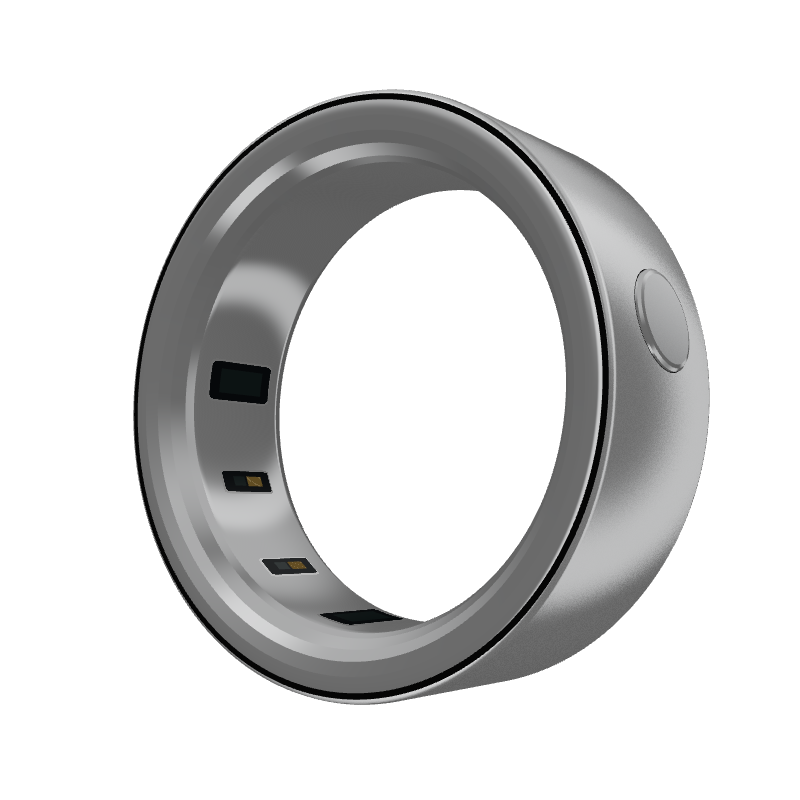
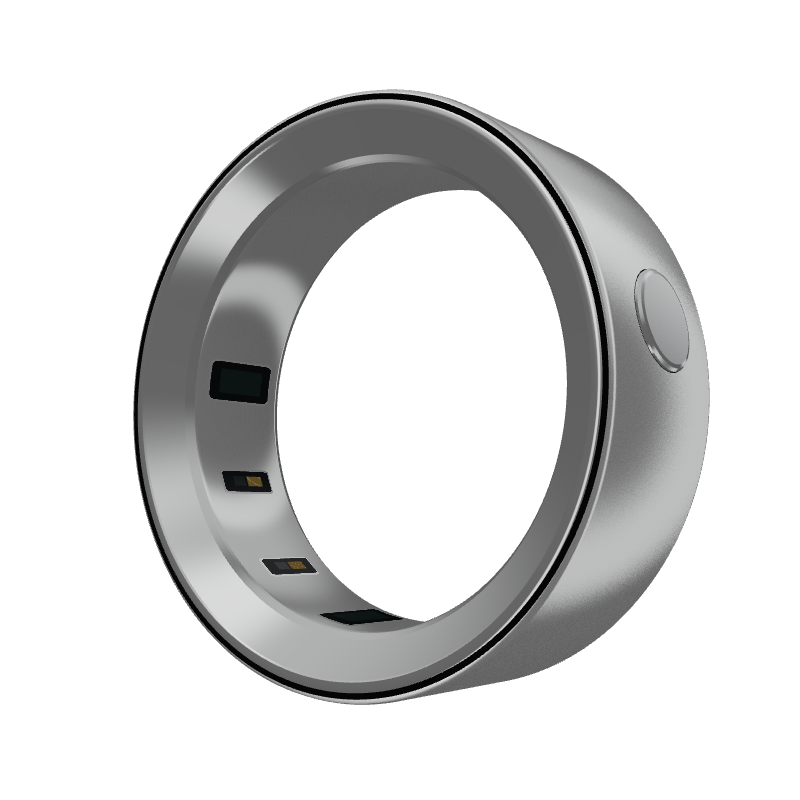
Round microphone corners and rebuild photo-based inner chamfer

diff --git a/ring-renderer.js b/ring-renderer.js
@@ -93,7 +93,7 @@ function createRingRenderer(canvas, options = {}) {
         vec2 mic = vec2(angularDistance(theta,-.87)*1.126,vLocal.z);
         vec2 led = vec2(angularDistance(theta,-1.06)*1.126,vLocal.z);
         bool microphoneOpening = refined
-          ? roundedBox(mic,vec2(.079*1.35,.079),.079*.70)<0.0
+          ? roundedBox(mic,vec2(.079*1.35,.079),.079*.94)<0.0
           : length(mic)<.079;
         if (microphoneOpening || length(led)<.026) discard;
       }
@@ -119,13 +119,13 @@ function createRingRenderer(canvas, options = {}) {
       vec3 light=base*(.23+.53*diffuse+.13*fill)+environment(reflected,roughness)*(.32+.18*fresnel);
       if (refined) {
         roughness=.62;
-        if (material>.5 && material<1.5) roughness=.24;
+        if (material>.5 && material<1.5) roughness=.19;
         if (material>1.5 && material<2.5) roughness=.30;
         if (material>3.5 && material<4.5) roughness=.28;
         vec3 metalReflection=environment(reflected,roughness)*vec3(.91,.925,.94);
         light=metalReflection+vec3(.015*diffuse+.008*fill);
         if (material<.5) light=metalReflection*.62+vec3(.13+.08*diffuse+.02*fill);
-        if (material>.5 && material<1.5) light=metalReflection*.50+vec3(.10+.07*diffuse);
+        if (material>.5 && material<1.5) light=metalReflection*.60+vec3(.085+.06*diffuse);
         if (material>1.5 && material<2.5) light=metalReflection*.48+vec3(.12+.08*diffuse);
         if (material>2.5 && material<3.5) light=vec3(.012);
       }
@@ -134,6 +134,7 @@ function createRingRenderer(canvas, options = {}) {
       if (material>1.5 && material<2.5) {
         float brushed=sin(vLocal.z*1800.0+sin(theta*500.0))*.003;
         light+=brushed;
+        if (refined) light+=(noise(vec3(theta*160.0,vLocal.z*1900.0,0.0))-.5)*.012;
       }
       if (material>4.5 && material<5.5) {
         // Woven microphone mesh, a dark recessed opening with thin crossing wires.
@@ -214,15 +215,23 @@ function createRingRenderer(canvas, options = {}) {
   lathe([[1.105,-.379],[1.12,-.37],[1.126,-.351],[1.126,.351],[1.12,.37],[1.105,.379]],0);
   lathe([[1.105,.379],[1.092,.381],[1.083,.379]],3);
   lathe([[1.105,-.379],[1.092,-.381],[1.083,-.379]],3);
-  lathe([[1.083,.379],[1.064,.386],[1.025,.386],[.974,.367],[.934,.334],[.898,.284],[.881,.252]],1);
-  lathe([[.881,-.252],[.898,-.284],[.934,-.334],[.974,-.367],[1.025,-.386],[1.064,-.386],[1.083,-.379]],1);
-  lathe([[.881,.252],[.875,.23],[.874,-.23],[.881,-.252]],2);
+  if (refined) {
+    // Photo detail: a narrow rolled lip, one broad machined chamfer, then a small inward fold.
+    const frontLip=[[1.083,.379],[1.069,.386],[1.045,.386],[1.039,.381],[.903,.283],[.887,.258],[.881,.248]];
+    lathe(frontLip,1);
+    lathe(frontLip.map(([r,z])=>[r,-z]).reverse(),1);
+    lathe([[.881,.248],[.875,.23],[.874,-.23],[.881,-.248]],2);
+  } else {
+    lathe([[1.083,.379],[1.064,.386],[1.025,.386],[.974,.367],[.934,.334],[.898,.284],[.881,.252]],1);
+    lathe([[.881,-.252],[.898,-.284],[.934,-.334],[.974,-.367],[1.025,-.386],[1.064,-.386],[1.083,-.379]],1);
+    lathe([[.881,.252],[.875,.23],[.874,-.23],[.881,-.252]],2);
+  }
 
   // Feature contours are tangent to the band; the microphone has real straight sides.
   function contour(angle,radius,aspect,rounded) {
     const cosine=Math.cos(angle),sine=Math.sin(angle);
     if (!rounded) return [cosine*radius*aspect,sine*radius];
-    const corner=radius*.70;
+    const corner=radius*.94;
     return [Math.sign(cosine)*(radius*aspect-corner)+corner*cosine,
       Math.sign(sine)*(radius-corner)+corner*sine];
   }

diff --git a/model-review.html b/model-review.html
@@ -4,8 +4,8 @@
   <meta charset="utf-8">
   <meta name="viewport" content="width=device-width,initial-scale=1">
   <title>R01 银色模型 · 细节检查</title>
-  <script src="ring-renderer.js?v=21" defer></script>
-  <script src="model-review.js?v=21" defer></script>
+  <script src="ring-renderer.js?v=22" defer></script>
+  <script src="model-review.js?v=22" defer></script>
   <style>
     * { box-sizing: border-box; }
     body { margin: 0; background: #20201e; color: #eee; font-family: -apple-system,BlinkMacSystemFont,"PingFang SC",sans-serif; }

diff --git a/README.md b/README.md
@@ -59,3 +59,5 @@
 Playwright 复核模型页 1440、1024、768、390、320px 四个视角、灯光与缩放及新版回退，WebGL 错误码为 0。材质仍待用户根据实物观感审阅。
 
 模型检查页再次按用户近照修订，麦克风改为两侧略平的大圆角矩形，孔口、凹边及网层同步使用该轮廓。外圈增加细密磨砂颗粒和微表面法线变化；内圈降低亮带强度、提高粗糙度，折角采用更明确的面过渡以减弱玻璃感。更新独立静态回退图。五种宽度、四视角、交互与 WebGL 回退复核通过。用户仍需审阅材质和圆角比例。
+
+模型页按新增内圈近照再次校准：麦克风圆角半径增至半高的 94%，仅保留短直边。内圈改成窄亮边、单块宽斜切面、小折角与内壁的连续剖面，替代原多段阶梯切角；加入轻微加工纹理。五种宽度和四视角复核，更新模型页专用回退图。角度与尺寸仍为参考图估算。
